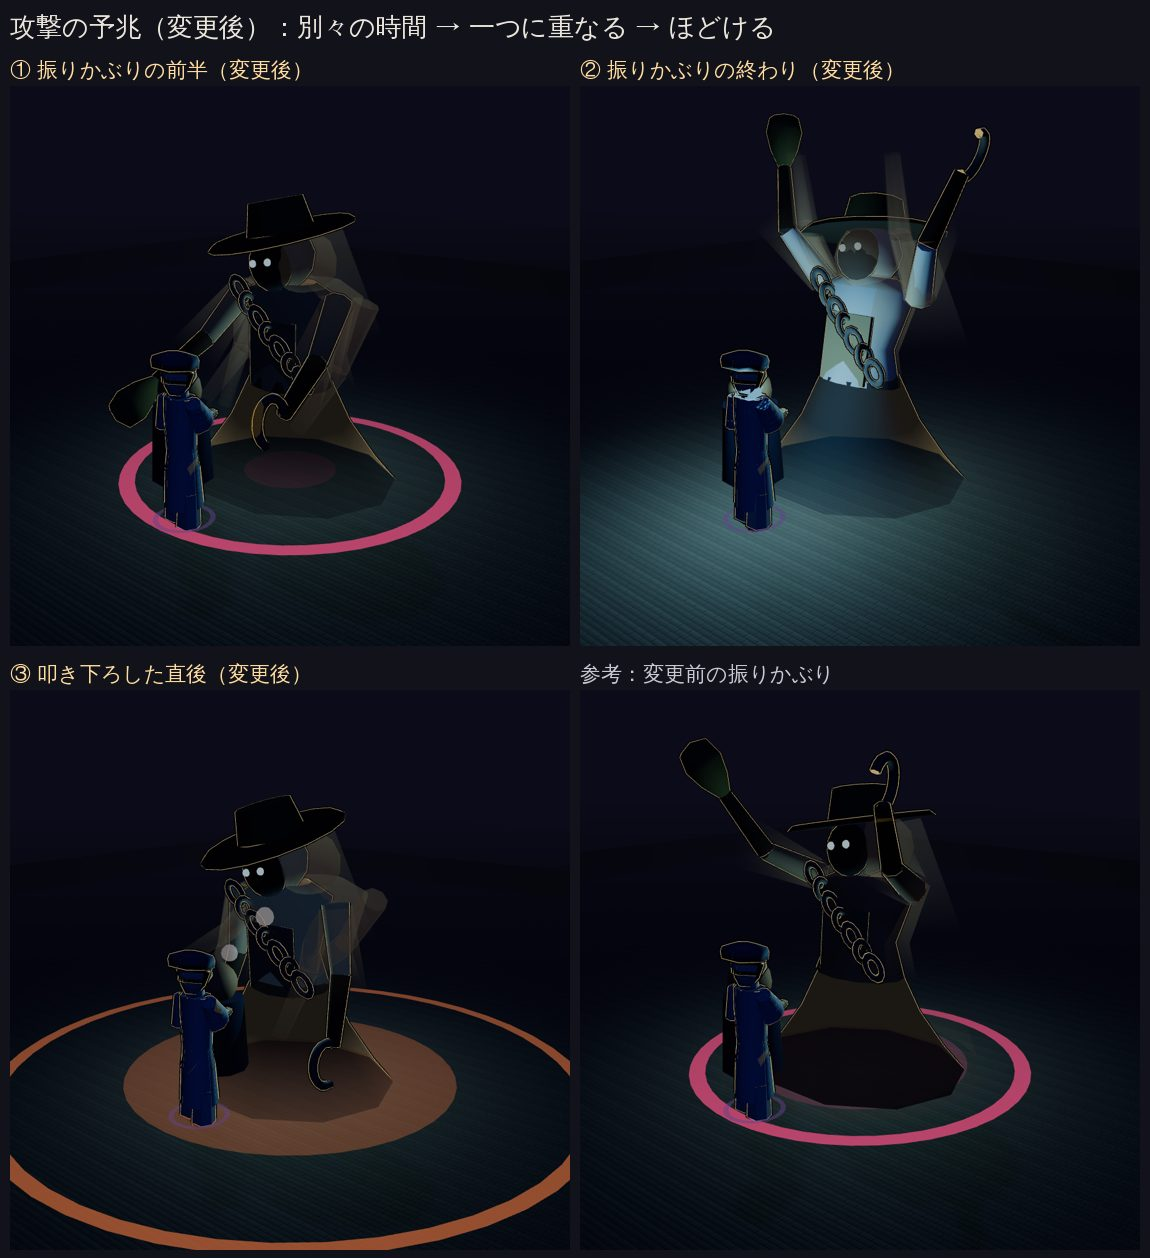
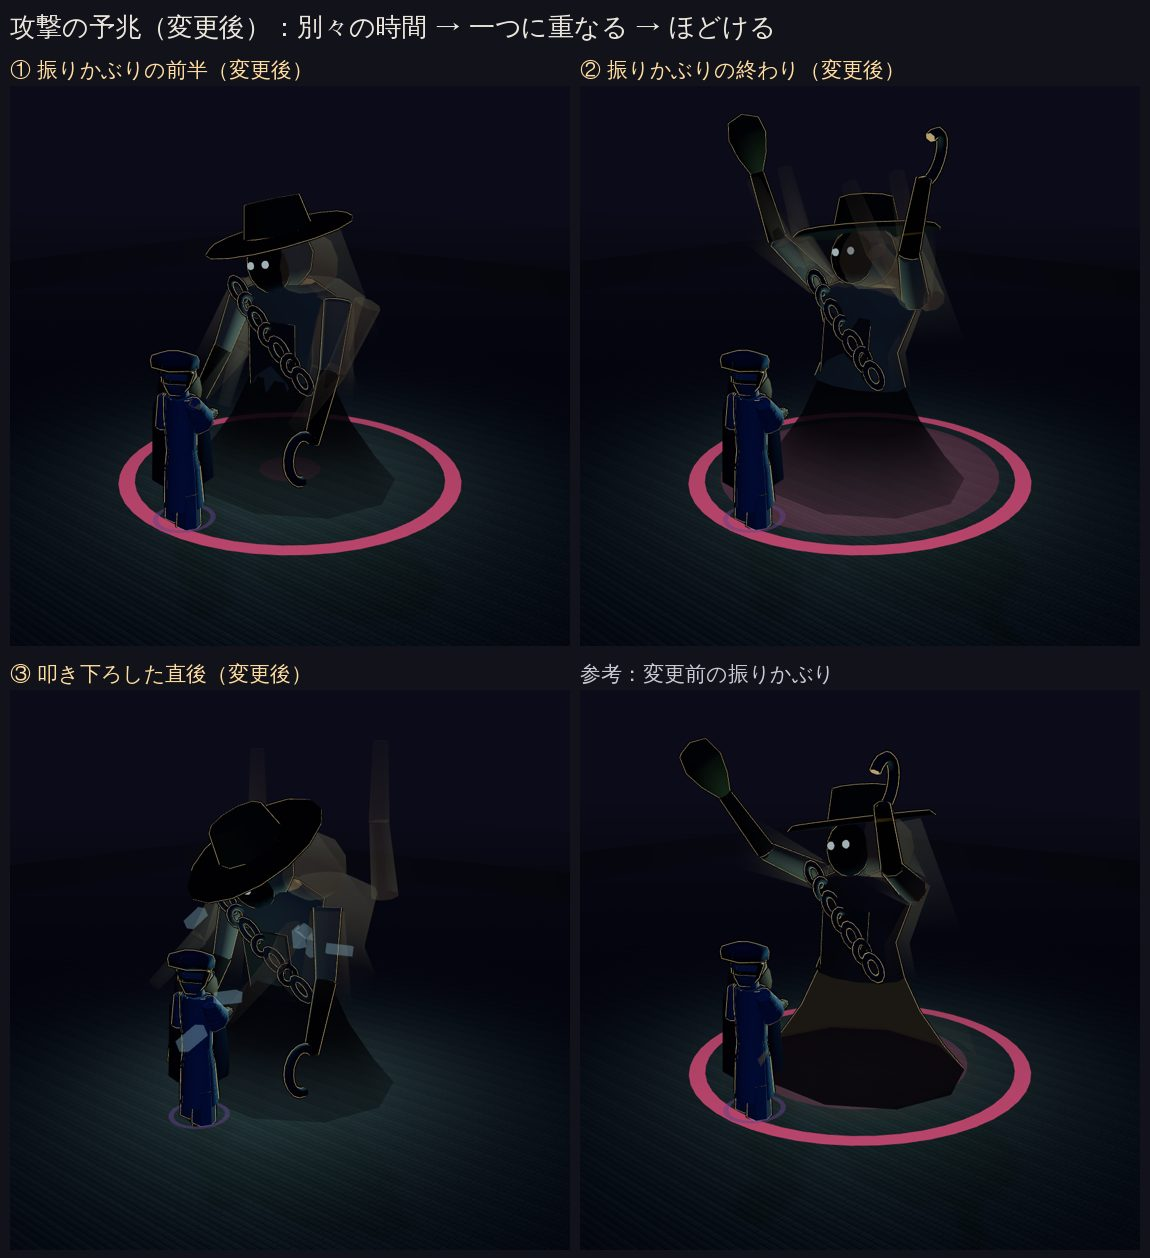
BOSS-DUSK-VISUAL-002: レビュー対応（透ける面の殻・夜の胴の自発光・向きの収束・重なる時間・旋回のとびとび・段階の戻し・振る舞いのテスト）
Claude-Session: https://claude.ai/code/session_01EwM99xY2PtkXGcS27CrAzo

diff --git a/src/legacy/parts/14-dungeon-duskvillage.js b/src/legacy/parts/14-dungeon-duskvillage.js
@@ -2476,8 +2476,7 @@
     const mat = (color, f, extra)=> new THREE.MeshStandardMaterial(Object.assign({color, roughness:f.roughness, metalness:f.metalness}, extra || {}));
     /* 胴の材質(被弾の白・段階移行の発光が書き換える。色 = en.baseColor)。自発光の色は配色の暗い水の色で、
        夜の青い光の下でも胴が真っ黒な塊に沈まず、濡れた影のように見える。段階移行で自発光が強まっても
-       (既存の処理。段階ごとに +0.25)冷たく暗い色のままで、段階 3 の中心の灯りを白く塗りつぶさない
-       (強さは汎用のボスの既定・撤退時の戻り値と同じ 0.22) */
+       (既存の処理。段階ごとに +0.25、1 で頭打ち)冷たく暗い色のままで、段階 3 の中心の灯りを白く塗りつぶさない */
     const bodyMat = mat(pal.main, F.cloth, {emissive:pal.water, emissiveIntensity:L.bodyEmissive});
     const accent = mat(pal.accent, F.cloth);
     const shade = mat(pal.shade, F.cloth);
@@ -2539,7 +2538,7 @@
       {y:1.0,     points:vEllipse(0.95, 0.8, 10)},
       {y:0.45,    points:vEllipse(1.35, 1.15, 10)},
       {y:0.04,    points:vEllipse(1.7, 1.5, 10)},
-    ]}), 0.04, 1.0, 0.35, 1), waterMat, 0, 0, 0, 'echoSkirt');
+    ]}), 0.04, 1.0, 0.35, 1), waterMat, 0, 0, 0, 'echoSkirt').userData.noOutline = true;   // 透ける裾に殻を付けると、奥の殻がクリーム色に透けた
     const ripple = add(g, new THREE.RingGeometry(1.75, 2.15, 24), rippleMat, 0, 0.05, 0, 'echoRipple');
     ripple.rotation.x = -Math.PI / 2;
     ripple.castShadow = false;
@@ -2652,12 +2651,9 @@
     return {body, parts:Object.assign({kind:'echo'}, duskEchoPartsOf(g))};
   }
   /* 小さな部品の X 線の殻を外す(buildBoss が addXrayShell を全部品に付けた後に呼ぶ)。X 線の殻は壁の向こうの
-     輪郭を描くためのもので、胴・頭・帽子・腕・裾の輪郭で足りる。分身はこの後に複製するので、分身にも効く */
+     輪郭を描くためのもので、胴・頭・帽子・腕の輪郭で足りる。分身はこの後に複製するので、分身にも効く */
   function trimDuskEchoShells(root){
-    const drop = [];
-    root.traverse(n=>{ if(n.userData.isXray && n.parent && n.parent.userData.echoNoXray) drop.push(n); });
-    drop.forEach(n=> n.parent.remove(n));
-    return drop.length;
+    return echoDropShells(root, m=> !!m.userData.echoNoXray, ['xray']).length;
   }
   function duskEchoPartsOf(root){
     const f = n => root.getObjectByName(n) || null;
@@ -2665,24 +2661,6 @@
             ghost:f('echoGhost'), ghost2:f('echoGhost2'), ghostArms:f('echoGhostArms'), ghostArms2:f('echoGhostArms2'),
             skirt:f('echoSkirt'), ripple:f('echoRipple'), head:f('echoHead'), shawl:f('echoShawl'),
             torso:f('echoTorso'), apron:f('echoApron')};
-  }
-  /* 本体の腕の角度の履歴(人影の腕が遅れてなぞるため)。個体ごと(本体・分身)に持つ。毎フレームの生成はしない */
-  const ECHO_ARM_HIST = 48;
-  function echoArmHistPush(store, t, a){
-    if(!store.eHistT){ store.eHistT = new Float32Array(ECHO_ARM_HIST); store.eHistA = new Float32Array(ECHO_ARM_HIST); store.eHistI = 0; store.eHistN = 0; }
-    store.eHistT[store.eHistI] = t; store.eHistA[store.eHistI] = a;
-    store.eHistI = (store.eHistI + 1) % ECHO_ARM_HIST;
-    if(store.eHistN < ECHO_ARM_HIST) store.eHistN++;
-  }
-  // 時刻 t の時点の腕の角度(t より前で最も新しい記録。足りなければいちばん古い記録)
-  function echoArmHistAt(store, t){
-    let i = store.eHistI, v = 0;
-    for(let n=0;n<store.eHistN;n++){
-      i = (i - 1 + ECHO_ARM_HIST) % ECHO_ARM_HIST;
-      v = store.eHistA[i];
-      if(store.eHistT[i] <= t) return v;
-    }
-    return v;
   }
   const _wrapAngle = a=> Math.atan2(Math.sin(a), Math.cos(a));
   /* 本体と分身で共有する姿勢。k = 振りかぶりの進み具合(null = 振りかぶっていない)、
@@ -2697,7 +2675,7 @@
     const idleL = Math.sin(t * 0.9) * 0.08, idleR = Math.sin(t * 0.9 + 1.4) * 0.08;
     const target = k != null ? -2.5 * _vEase(kk) : (s > 0 ? -0.55 * s : 0);
     const a = vLerp(store, 'eArm', target, rate, dt);
-    if(dt > 0) echoArmHistPush(store, t, a);
+    if(dt > 0) echoHistPush(store, t, a);
     if(P.armL) P.armL.rotation.set(a + (active ? 0 : idleL), 0, -0.12 - 0.3 * kk);
     if(P.armR) P.armR.rotation.set(a + (active ? 0 : idleR), 0, 0.12 + 0.3 * kk);
     // 待機中、肘が時々人の関節では曲がらない向きへ反る
@@ -2731,22 +2709,25 @@
       const layer = i ? P.ghost2 : P.ghost;
       if(!layer) continue;
       const o = L.layers[i], tm = T.layers[i];
-      const stepKey = i ? 'eStep2' : 'eStep1', yawKey = i ? 'eHeld2' : 'eHeld1';
+      const stepKey = i ? 'eStep2' : 'eStep1', yawKey = i ? 'eHeld2' : 'eHeld1', baseKey = i ? 'eBase2' : 'eBase1';
       const last = store[stepKey];
-      if(!active && !echoBossStepDue(t, last, tm.step)) continue;   // まだ前の姿勢のまま止まっている
-      const span = active || last == null ? dt : Math.min(0.5, t - last);
-      store[stepKey] = t;
-      // 元の向きに残り、人影ごとの速さで向き直る(残るのは turnHold まで)
-      const held = store[yawKey] != null ? store[yawKey] : yaw;
-      const nh = held + _wrapAngle(yaw - held) * Math.min(1, tm.chase * span);
-      store[yawKey] = nh;
-      const off = Math.max(-T.turnHold, Math.min(T.turnHold, _wrapAngle(nh - yaw)));
-      layer.position.x = (o.x + Math.sin(t * 0.7 + o.phase) * 0.1) * spread;
-      layer.position.z = o.z * spread;
-      layer.position.y = Math.sin(t * 0.9 + o.phase + 1.2) * L.floatAmp - sink * T.sinkDepth * (i ? 0.7 : 0);
-      layer.rotation.y = (o.yaw + Math.sin(t * 0.5 + o.phase) * 0.12) * spread + off;
-      const arms = i ? P.ghostArms2 : P.ghostArms;
-      if(arms && store.eHistN) arms.rotation.x = tm.armBase * (1 - kk) + echoArmHistAt(store, t - tm.delay * delayK);
+      if(active || echoBossStepDue(t, last, tm.step)){
+        // とびとびの更新(振りかぶり・叩き下ろしの間は毎フレーム)。止まっている間は前の姿勢のまま
+        const span = active || last == null ? dt : Math.min(0.5, t - last);
+        store[stepKey] = t;
+        const held = store[yawKey] != null ? store[yawKey] : yaw;
+        store[yawKey] = held + _wrapAngle(yaw - held) * Math.min(1, tm.chase * span);   // 人影ごとの速さで向き直る
+        store[baseKey] = (o.yaw + Math.sin(t * 0.5 + o.phase) * 0.12) * spread;
+        layer.position.x = (o.x + Math.sin(t * 0.7 + o.phase) * 0.1) * spread;
+        layer.position.z = o.z * spread;
+        layer.position.y = Math.sin(t * 0.9 + o.phase + 1.2) * L.floatAmp - sink * T.sinkDepth * (i ? 0.7 : 0);
+        const arms = i ? P.ghostArms2 : P.ghostArms;
+        if(arms && store.eHistN) arms.rotation.x = tm.armBase * (1 - kk) + echoHistAt(store, t - tm.delay * delayK);
+      }
+      /* 向きは毎フレーム、世界に対して固定する: 本体が回っても人影は元の向きに残り(turnHold まで)、
+         更新のたびに少しずつ向き直る。振りかぶりが満ちる前に向きのずれも 0 になる */
+      if(store[yawKey] != null) layer.rotation.y = (store[baseKey] || 0)
+        + Math.max(-T.turnHold, Math.min(T.turnHold, _wrapAngle(store[yawKey] - yaw))) * delayK;
     }
     // 傾いだ首: 片側へ傾いだまま、時々わずかに跳ねる。振りかぶりでは顔を上げ、叩き下ろした後はうなだれる
     if(P.head){
@@ -2763,30 +2744,47 @@
   }
   /* 段階 3: 胴が透けて、既存の段階移行の演出(06-player-enemy.js の記憶の灯りと中心の輪郭)が胴に埋もれずに見える。
      演出そのもの(位置・形・色)は作り直さない。中心の輪郭は腰の高さ(水の裾の上端と胴の下側)にあるので:
-       ・胴と前掛けを透かし、その輪郭線の殻(不透明のクリーム色)を外す ―― 殻の内側が透けた胴の奥で壁になっていた
+       ・胴の材質(頭と上腕も共有)と前掛けを透かし、それらの輪郭線の殻(不透明のクリーム色)を外す
+         ―― 殻を残すと、透けた面の奥で殻がクリーム色の壁・柱に見えた
        ・水の裾を薄くし、奥行きを書かない(裾の上端が中心の輪郭の下半分を覆っていた)
-     体の外形は、腕・頭・帽子・裾の輪郭線と重なる人影で読める。材質は分身と共有なので、段階 3 の分身も同じく透ける
-     (本体と見分けられないまま)。一度だけ書き換える */
+     体の外形は、帽子・顔・前腕・鎖の輪郭線と重なる人影で読める。材質は分身と共有なので、分身も同じく透ける。
+     いま出ている分身の殻も同じく外す(段階 3 の後に作る分身は、殻を外した本体の複製になる)。
+     撤退などで段階 1 に戻ったら元に戻す(duskEchoCloseCore) */
+  function duskEchoCoreMeshes(en){
+    const P = en.parts || {}, mats = [P.torso, P.apron].filter(Boolean).map(m=> m.material);
+    return {P, mats, pick: m=> m.isMesh && !m.userData.isOutline && !m.userData.isXray && mats.includes(m.material)};
+  }
   function duskEchoOpenCore(en){
     en.echoCoreOpen = true;
-    const P = en.parts || {}, T = ECHO_BOSS_TIME;
+    const {P, mats, pick} = duskEchoCoreMeshes(en), T = ECHO_BOSS_TIME;
+    const roots = [en.group].concat(enemies.filter(e=> e.mirrorCloneOf === en && e.group).map(e=> e.group));
+    en.echoCoreShells = [];
+    roots.forEach(r=>{ en.echoCoreShells.push(...echoDropShells(r, pick, ['outline'])); });
+    en.echoCoreSaved = mats.concat(P.skirt ? [P.skirt.material] : []).map(m=> [m, m.opacity, m.transparent, m.depthWrite]);
     const thin = (m, opacity)=>{
-      if(!m || !m.material) return;
-      m.material.transparent = true;
-      m.material.opacity = opacity;
-      m.material.depthWrite = false;
-      m.material.needsUpdate = true;
+      m.transparent = true; m.opacity = opacity; m.depthWrite = false; m.needsUpdate = true;
     };
-    [P.torso, P.apron].forEach(m=>{
-      if(!m) return;
-      thin(m, T.coreOpacity);
-      m.children.filter(c=> c.userData.isOutline).forEach(c=> m.remove(c));
-    });
-    thin(P.skirt, T.coreSkirtOpacity);
+    mats.forEach(m=> thin(m, T.coreOpacity));
+    if(P.skirt) thin(P.skirt.material, T.coreSkirtOpacity);
+  }
+  function duskEchoCloseCore(en){
+    en.echoCoreOpen = false;
+    (en.echoCoreSaved || []).forEach(([m, op, tr, dw])=>{ m.opacity = op; m.transparent = tr; m.depthWrite = dw; m.needsUpdate = true; });
+    (en.echoCoreShells || []).forEach(([p, n])=>{ if(p.parent || p === en.group) p.add(n); });
+    en.echoCoreSaved = null; en.echoCoreShells = null;
   }
   // ボス本体(updateBossAnim から)。振りかぶり = 近接の輪と同じ進み具合
   function poseDuskEchoBoss(en, P, t, dt, k){
-    if((en.phase || 1) >= 3 && !en.echoCoreOpen) duskEchoOpenCore(en);
+    const phase = en.phase || 1;
+    if(phase >= 3 && !en.echoCoreOpen) duskEchoOpenCore(en);
+    // 撤退・やり直しで段階が戻った(12-progression-ui.js が phase = 1 に戻す): 透けた胴を戻す
+    if(en.echoLastPhase != null && phase < en.echoLastPhase && en.echoCoreOpen && phase < 3) duskEchoCloseCore(en);
+    en.echoLastPhase = phase;
+    /* 胴の自発光はこの体の既定(bodyEmissive)を下回らないようにする。汎用の処理が 0.22〜0.25 へ戻す所
+       (突進の後・撤退・やり直し)があり、そのままだと夜の胴が黒い塊に戻るため。特殊行動の間は触らない
+       (突進の溜めの発光はその処理のまま)。段階移行の強まり(+0.25)はこの上に積まれる */
+    const bm = en.body && en.body.material;
+    if(bm && !en.special && bm.emissiveIntensity < ECHO_BOSS_LOOK.bodyEmissive) bm.emissiveIntensity = ECHO_BOSS_LOOK.bodyEmissive;
     const slam = (en.postAtkRecoveryT || 0) > 0 && k == null ? en.postAtkRecoveryT / POST_ATTACK_RECOVERY_SEC : 0;
     poseDuskEchoBody(P, t, dt, en.knockedDown ? null : k, en.knockedDown ? 0 : slam, en, en.phase);
   }

diff --git a/src/core/dusk-enemies.js b/src/core/dusk-enemies.js
@@ -130,7 +130,8 @@ export const ECHO_BOSS_LOOK = Object.freeze({
   twitchEvery: 4.3,     // 首がわずかに跳ねる間隔(秒)
   twitchAmp: 0.12,
   veilEmissive: 0.14,   // 薄布の自発光(胴の bodyEmissive 以下。夜に沈みきらない最小限。光源は足さない)
-  bodyEmissive: 0.22,   // 胴の自発光(色は配色の暗い水の色 = echoBoss.water。汎用のボスの既定・撤退時の戻り値と同じ強さ)
+  bodyEmissive: 0.5,    // 胴の自発光(色は配色の暗い水の色 = echoBoss.water。夜の光で胴が黒い塊に沈まない強さ。
+                        // 段階移行の +0.25 は既存の処理のまま 1 で頭打ち。汎用の処理が下げても、特殊行動の外ではこの値へ戻す)
 });
 /* 時間のずれ(BOSS-DUSK-VISUAL-002)。iPhone の確認で「ただの幽霊に見える」とされたので、
    「複数の人の記憶が、別々の時間のまま一つの体に重なっている」を動きで見せる:
@@ -147,8 +148,8 @@ export const ECHO_BOSS_TIME = Object.freeze({
     Object.freeze({motif: 'wait', headYaw: 0.7,  headPitch: 0.05, armBase: -0.1, delay: 0.14, step: 0.16, chase: 3.0}),
     Object.freeze({motif: 'work', headYaw: -0.1, headPitch: 0.55, armBase: -0.75, delay: 0.26, step: 0.23, chase: 1.8}),
   ]),
-  convergeStart: 0.5,   // 振りかぶりの進み具合がここから遅れを縮め始め、
-  convergeEnd: 0.88,    // ここで遅れが 0 になる(当たる瞬間より前に三つが一つに重なる)
+  convergeStart: 0.4,   // 振りかぶりの進み具合がここから遅れを縮め始め、
+  convergeEnd: 0.75,    // ここで遅れが 0 になる(当たる瞬間より前に三つが一つに重なり、最後の 25% は重なったまま見える)
   turnHold: 0.7,        // 元の向きに残る最大の角度(rad)。これ以上は残らない(向きが分からなくならない)
   sinkEvery: 7.1,       // 水面へ沈みかける間隔(秒)
   sinkDur: 1.3,
@@ -174,6 +175,38 @@ export function echoBossSink(t){
 // とびとびの更新の時刻が来たか(last = 前に更新した時刻。時間が巻き戻ったら更新する)
 export function echoBossStepDue(t, last, step){
   return last == null || t < last || t - last >= step;
+}
+
+/* 本体の腕の角度の履歴(人影の腕が遅れてなぞるため)。個体ごと(本体・分身)の store に固定長の配列で持ち、
+   毎フレーム何も作らない */
+export const ECHO_HIST_LEN = 48;
+export function echoHistPush(store, t, a){
+  if(!store.eHistT){ store.eHistT = new Float32Array(ECHO_HIST_LEN); store.eHistA = new Float32Array(ECHO_HIST_LEN); store.eHistI = 0; store.eHistN = 0; }
+  store.eHistT[store.eHistI] = t; store.eHistA[store.eHistI] = a;
+  store.eHistI = (store.eHistI + 1) % ECHO_HIST_LEN;
+  if(store.eHistN < ECHO_HIST_LEN) store.eHistN++;
+}
+// 時刻 t の時点の腕の角度(t 以前で最も新しい記録。足りなければいちばん古い記録。記録が無ければ 0)
+export function echoHistAt(store, t){
+  let i = store.eHistI || 0, v = 0;
+  for(let n=0;n<(store.eHistN || 0);n++){
+    i = (i - 1 + ECHO_HIST_LEN) % ECHO_HIST_LEN;
+    v = store.eHistA[i];
+    if(store.eHistT[i] <= t) return v;
+  }
+  return v;
+}
+/* 輪郭線・X 線の殻を外す(殻は元のメッシュの子。userData.isOutline / isXray)。
+   pick(mesh) が真のメッシュから、kinds('outline' / 'xray')の殻を外し、外した [親, 殻] の組を返す(戻すため) */
+export function echoDropShells(root, pick, kinds){
+  const want = kinds || ['outline', 'xray'];
+  const drop = [];
+  root.traverse(n=>{
+    if(!n.parent || !pick(n.parent)) return;
+    if((n.userData.isOutline && want.includes('outline')) || (n.userData.isXray && want.includes('xray'))) drop.push([n.parent, n]);
+  });
+  drop.forEach(([p, n])=> p.remove(n));
+  return drop;
 }
 
 /* 網の束の断面(LatheGeometry の [半径, 高さ])。手から垂れ下がり、下ほど膨らむ袋の形。

diff --git a/src/legacy/concat-plugin.js b/src/legacy/concat-plugin.js
@@ -151,7 +151,7 @@ import {
   mirrorRingProgress, foamRingVisible, bossMeleeRingProgress,
   mirrorPose, keeperPose, echoPose, copyMimicProgress,
   BOSS_CLONE_TELL, bossCloneHitRadius, ECHO_BOSS_LOOK, ECHO_BOSS_NET_PROFILE, echoBossLayerSpread, echoBossHeadTwitch,
-  ECHO_BOSS_TIME, echoBossDelayScale, echoBossSink, echoBossStepDue,
+  ECHO_BOSS_TIME, echoBossDelayScale, echoBossSink, echoBossStepDue, echoHistPush, echoHistAt, echoDropShells,
 } from '../core/dusk-enemies.js';
 import { rogueBackAttackDamageMul } from '../core/rogue-back-attack.js';
 import { attackLungeDistance, lungeStep, lungeFinished } from '../core/attack-lunge.js';
